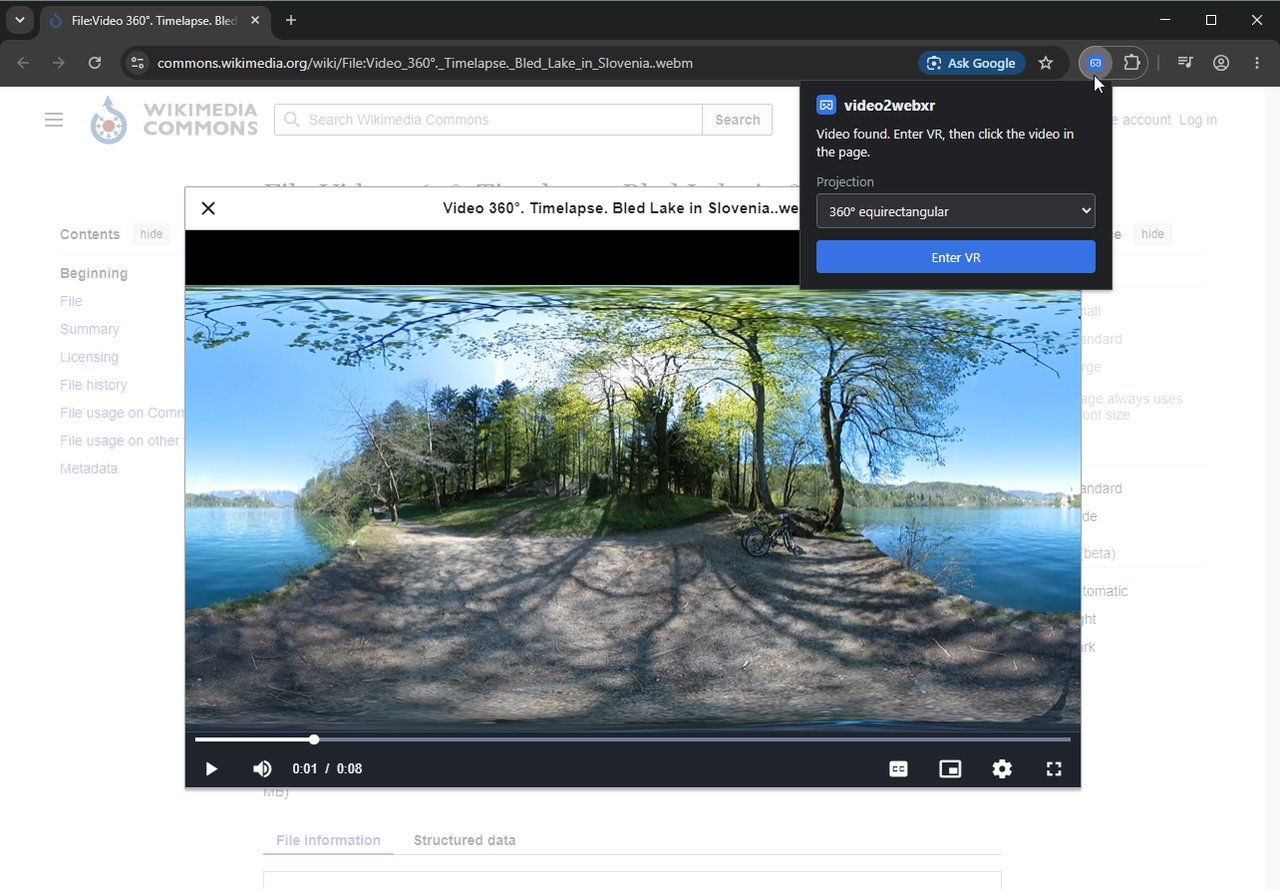
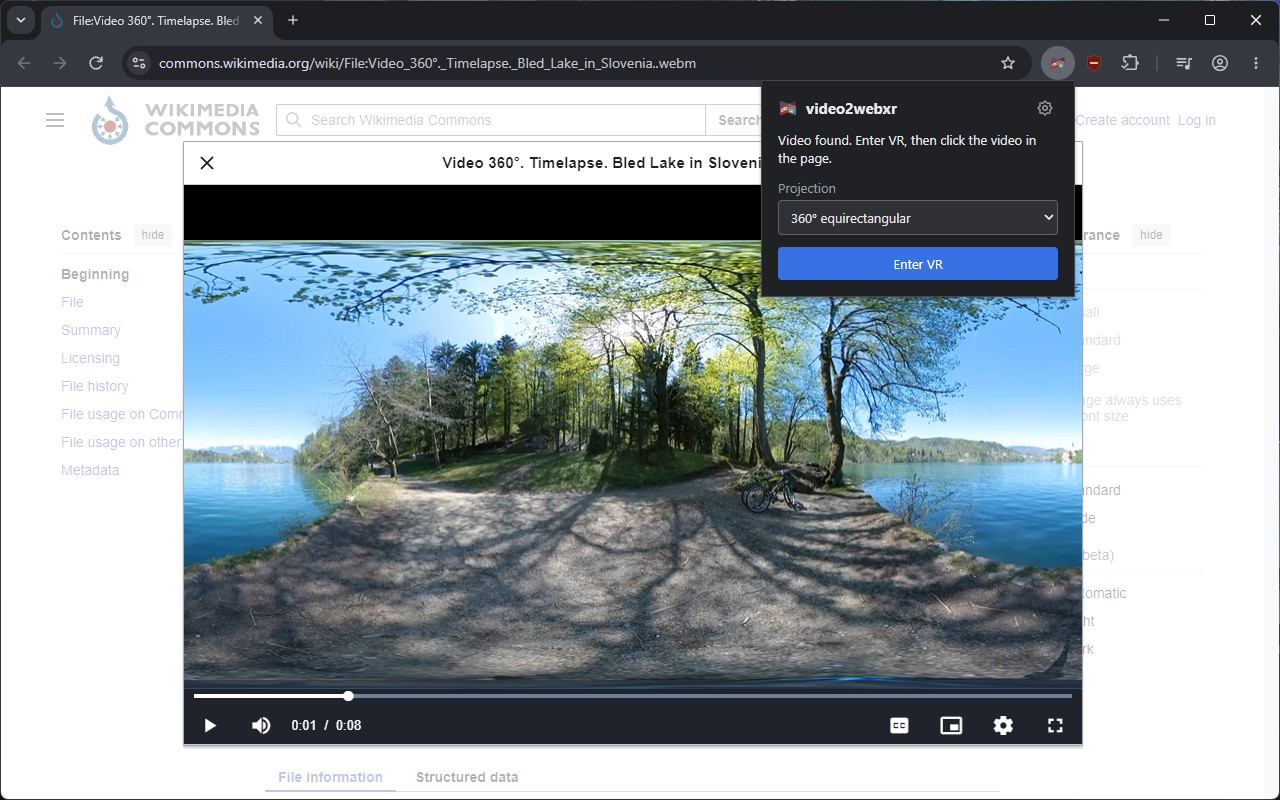
docs: update the browser screenshots and add one of the settings

diff --git a/README.md b/README.md
@@ -81,6 +81,8 @@ Open them from the gear in the popup, or from the extension's details page:
 
 Changes apply at once, also while in VR.
 
+![The settings: default projections, the remembered sites, the controllers' colours, laser fade-out and orb](docs/screenshots/settings.jpg)
+
 ### Videos to try
 
 | Video | Where | Projection |
